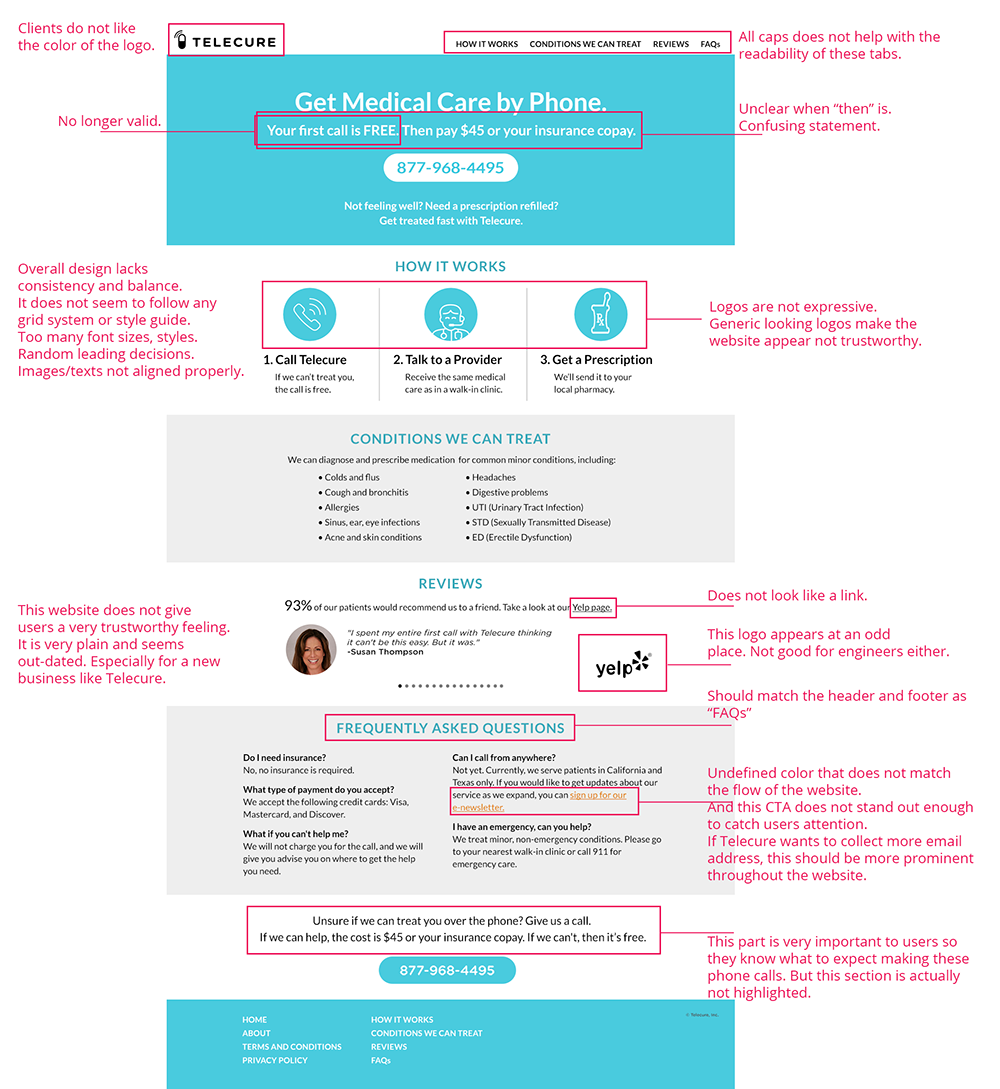
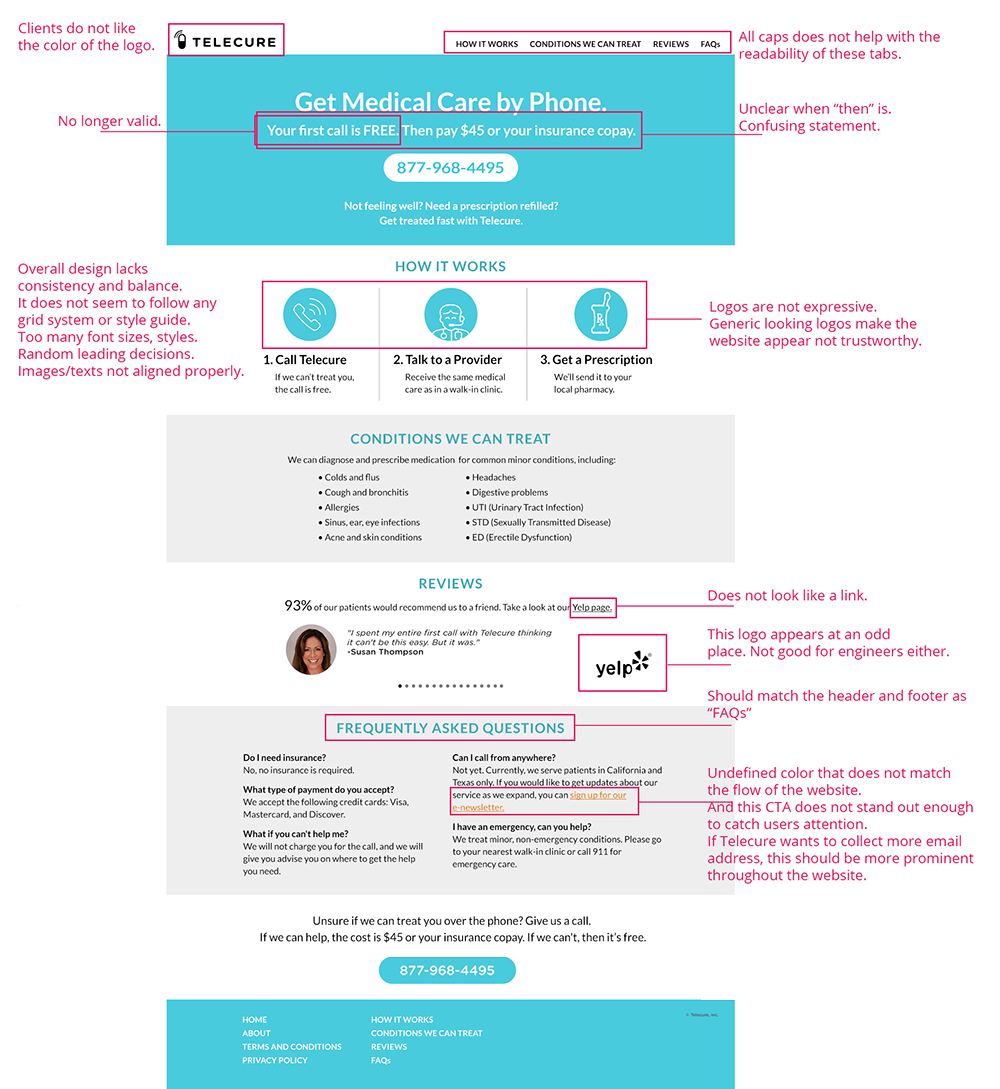
update

Changed region(s): [[0.713, 0.843, 0.961, 0.9366], [0.0, 0.562, 0.217, 0.6244], [0.651, 0.843, 0.682, 0.8742]]

diff --git a/telecure.html b/telecure.html
@@ -72,12 +72,14 @@
                             <hr class="star-primary">
                             <img src="" class="img-responsive img-centered" alt="">
                             <p>Telecure is a telemedicine company that treats common conditions over the phone. </p>
+
+                            <a href="img/telecure/telecuretop.png" target="_blank"><img src="img/telecure/telecuretop.png" class="image featured" alt=""></a>
                             <h3>Problem</h3>
-                            <p>Telecure's landing page is not working very well on mobile devices. Today, almost 1/4 of the Web's traffic comes from mobile. If Telecure didn't build a responsive site, they are losing a quarter of their users.</p>
+                            <p>Telecure's landing page is not working very well on mobile devices. Today, almost 1/4 of the Web's traffic comes from mobile. If Telecure didn't have a responsive site, they are losing a quarter of their users.</p>
                             <h3>Project</h3>
-                            <p>This project is to improve the existing Telecure landing page (up until July, 2014). The landing page is not mobile responsive and is not optimized. <br> Key Pain Points: <br>• Website design/style is not consistent <br>• Font sizes/leadings make it harder for users to read/understand <br>• Unnecessary space with no information given <br>• Unclear value proposition<br>• Content is not optimized for mobile users<br>• Website is not trustworthy enough <br></p>
+                            <p>This project is to improve the existing Telecure landing page (up until July, 2014). <br> Key issues: <br>• Website design/style is not consistent <br>• Site is not responsive <br>• Content needs to be updated</p>
                             <h3>The old Telecure Landing Page</h3>
-                            <p>Desktop Version<br>I highlighted some of the parts that need to be optimized or removed.</p>
+                            <p>I highlighted some of the parts that caught my attention on both the desktop and mobiel version.</p>
 
                             <img src="img/telecure/origin.png" class="image featured" alt="">
                             <p>Mobile Version</p>
@@ -86,27 +88,27 @@
                             <a href="img/telecure/telecureoldCombo3.png" target="_blank"><img src="img/telecure/telecureoldCombo3.png" class="image featured" alt=""></a>
                             <p>As you can see, their old landing page really needs to be optimized.</p>
                             <h3>Mobile First</h3>
-                            <p>The challenge here is to avoid as many differences as possible as the widths of the devices change. I want to aim for a beautiful user experience for all of them. </p>
+                            <p>The challenge here is to avoid as many differences as possible as the widths of the devices change.</p>
 
                             <h3>My Role</h3>
-                            <p>My goal here is to tackle all the major pain points listed above and to improve the overall Telecure website experience. I researched, wireframed and re-designed the website. I tried to maintain their original design framework as requested by the client.<br>
+                            <p>I researched, wireframed and re-designed the website. I tried to maintain their original design framework as requested by the client.<br>
                             <p>Telecure also decided to use "zombie people" (shown below) in their design, and I was asked to apply these characters. I also added a page for their new iOS app.</p>
                             <a href="img/telecure/ZomPeople.png" target="_blank"><img src="img/telecure/ZomPeople.png" class="image featured" alt=""></a>
-                            <h3>Who Am I Designing For?</h3>
+                            <h3>Personas</h3>
                             <p>There are mostly 3 types of people Telecure is targeting at.<br>• People who do not have insurance and have difficulty accessing any doctors;<br>• People who do have insurance but they are in a rush (for example, traveling) and cannot wait long to make appointments with doctors;<br>• People with insurance who do not mind spending some money to save themselves some time.</p>
-                            <p>They also share one thing in common - they all need trustworthy medical help fast. So the Telecure website really should be able to offer the information they need so they can be convinced.</p>
+                            
 
                             <h3>Start From Sketches</h3>
                             <p>I started to sketch some of the key screens. The idea is to keep the website consistent through out each section.</p>
                              <a href="img/telecure/sketch01.png" target="_blank"><img src="img/telecure/sketch01.png" class="image featured" alt=""></a>
                              <a href="img/telecure/sketch02.png" target="_blank"><img src="img/telecure/sketch02.png" class="image featured" alt=""></a>
                              <h3>Style Guide</h3>
-                             <p>Once I have the rough idea of how the website should go, I started to develope a rough style guide. It helps keep the design consistent. I discussed this with the developer and we agreed on the brand colors. From there, I developed the style guide as shown below.(I also referenced <a href="http://www.typogui.de/" target="_blank"> this website</a> for Typography advices.</p>
+                             <p>Once I have the rough idea of how the website should go on mobile, I started to develope a rough style guide. It helps keep the design consistent. I discussed this with the developer and we agreed on the brand colors. From there, I developed the style guide as shown below.(I also referenced <a href="http://www.typogui.de/" target="_blank"> this website</a> for Typography advices.</p>
                              <a href="img/telecure/styleguide.png" target="_blank"><img src="img/telecure/styleguide.png" class="image featured" alt=""></a>
 
 
                             <h3>Mobile Design</h3>
-                            <p>After the wireframes, I started to design the high-fidelity prototypes. Using the style guide, I was able to keep the design consistent. I believe that the pain points I listed earlier were all solved with this design. The final version was shown to the clients and they were happy with it :)<br>This is what it looks like on different devices as shown below.</p>
+                            <p>After the wireframes, I started to design the high-fidelity prototypes. <br>This is what it looks like on different devices as shown below.</p>
                             <p>iPhone 5/5s</p>
                              <a href="img/telecure/telecureCombo1.png" target="_blank"><img src="img/telecure/telecureCombo1.png" class="image featured" alt=""></a>
                              <a href="img/telecure/telecureCombo2.png" target="_blank"><img src="img/telecure/telecureCombo2.png" class="image featured" alt=""></a>
